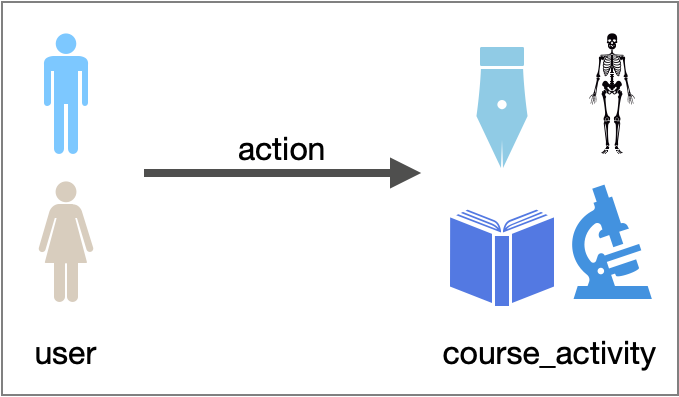
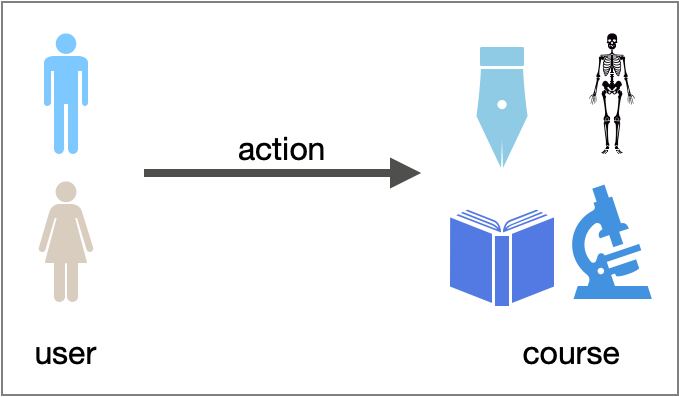
updated plan-schema

Changed region(s): [[0.6495, 0.8463, 0.9897, 0.937]]

diff --git a/docs/quick-start/st-ug-plan-schema.md b/docs/quick-start/st-ug-plan-schema.md
@@ -13,10 +13,10 @@
 
 | 要素  | 名称  | 属性名称 (数据类型)  |  说明  |
 | :---  | :---  | :---  | :---  |
-| 标签  | **user**  | 无属性。源数据中的 user id 信息将用于生成这类点数据的 VID。 | 表示指定 MOOC 平台的用户。  |
-| 标签  | **course** | - `courseId` (`int`)<br /> - `courseName` (string) <br />本示例中将使用 `courseName` 的值通过 `Hash()` 函数生成这类点数据的 VID。因为 Nebula Graph 要求所有点的 VID 在同一个图空间里必须始终唯一，而 `courseId` 与部分 **user** 类的 VID 是重复的，所以，不能使用 `courseId` 生成 **course** 类点数据的 VID。 | 表示指定 MOOC 平台上的课程。  |
+| 标签  | **user**  | `userId` (`int`) <br /> 将使用 `userId` 生成这类点数据的 VID。 | 表示指定 MOOC 平台的用户。  |
+| 标签  | **course** | - `courseId` (`int`)<br /> - `courseName` (string) <br />本示例中将使用 `courseName` 的值通过 `Hash()` 函数生成这类点数据的 VID。因为 Nebula Graph 要求同一个图空间中所有点的 VID 必须始终唯一，而 `courseId` 与部分 **user** 类 VID 重复，所以，不能使用 `courseId` 生成 **course** 类点数据的 VID。 | 表示指定 MOOC 平台上的课程。  |
 | 边类型  | **action**  | - `actionId` (`int`) <br /> - `duration` (`double`)：代表源数据中的 _timestamp_ 数据，表示行为持续时间 <br /> - `label` (`bool`)：表示 **user** 完成一个行为后是否退出了课程 <br /> - `feature0` (`double`) <br /> - `feature1` (`double`) <br /> - `feature2` (`double`) <br /> - `feature3` (`double`) |  表示用户参与课程的行为，分别用参与活动的持续时间、参与后用户是否退出了 MOOC 平台以及行为的四个维度（feature）来描述。其中，`label` 为 `true` 表示退出 MOOC 平台，为 `false` 表示未退出平台。 |
 
-下图说明示例中点与边的关系。
+下图说明示例中 **user** 类点与 **course** 类点之间如何发生关系（**action**）。
 
-![user 在 MOOC 平台上参加课程](../figs/st-ug-006.png "示例中点与边的关系")
+![用户在 MOOC 平台上参加课程](../figs/st-ug-006.png "示例中 user 与 course 的关系")
